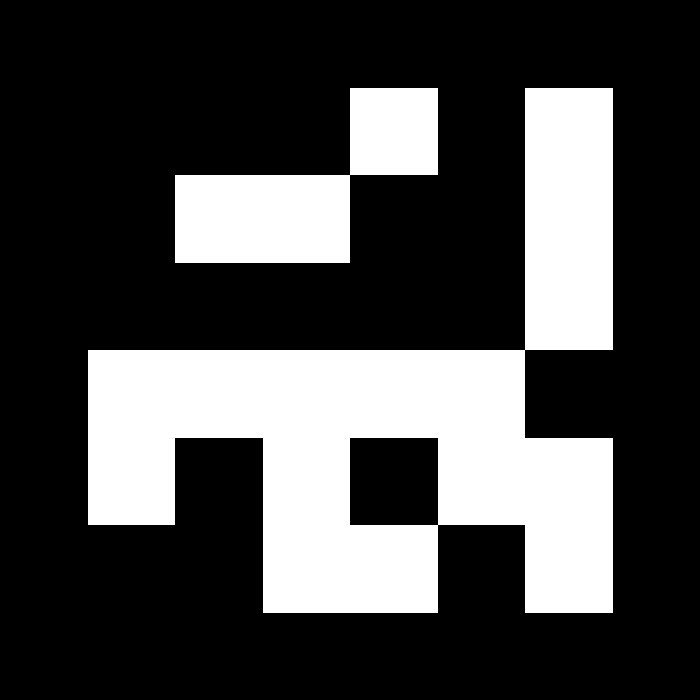
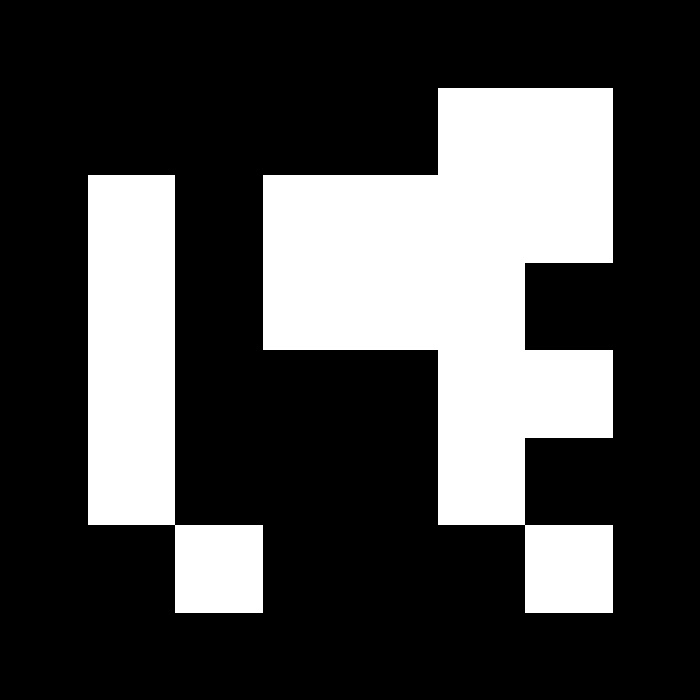
generated new aruco markers

diff --git a/tracking/aruco_gen.py b/tracking/aruco_gen.py
@@ -7,7 +7,7 @@ aruco_dict = aruco.Dictionary_get(aruco.DICT_6X6_250)
 print(aruco_dict)
 # second parameter is id number
 # last parameter is total image size
-img = aruco.drawMarker(aruco_dict, 2, 700)
+img = aruco.drawMarker(aruco_dict, 3, 700)
 cv2.imwrite("test_marker_3.jpg", img)
  
 cv2.imshow('frame',img)
